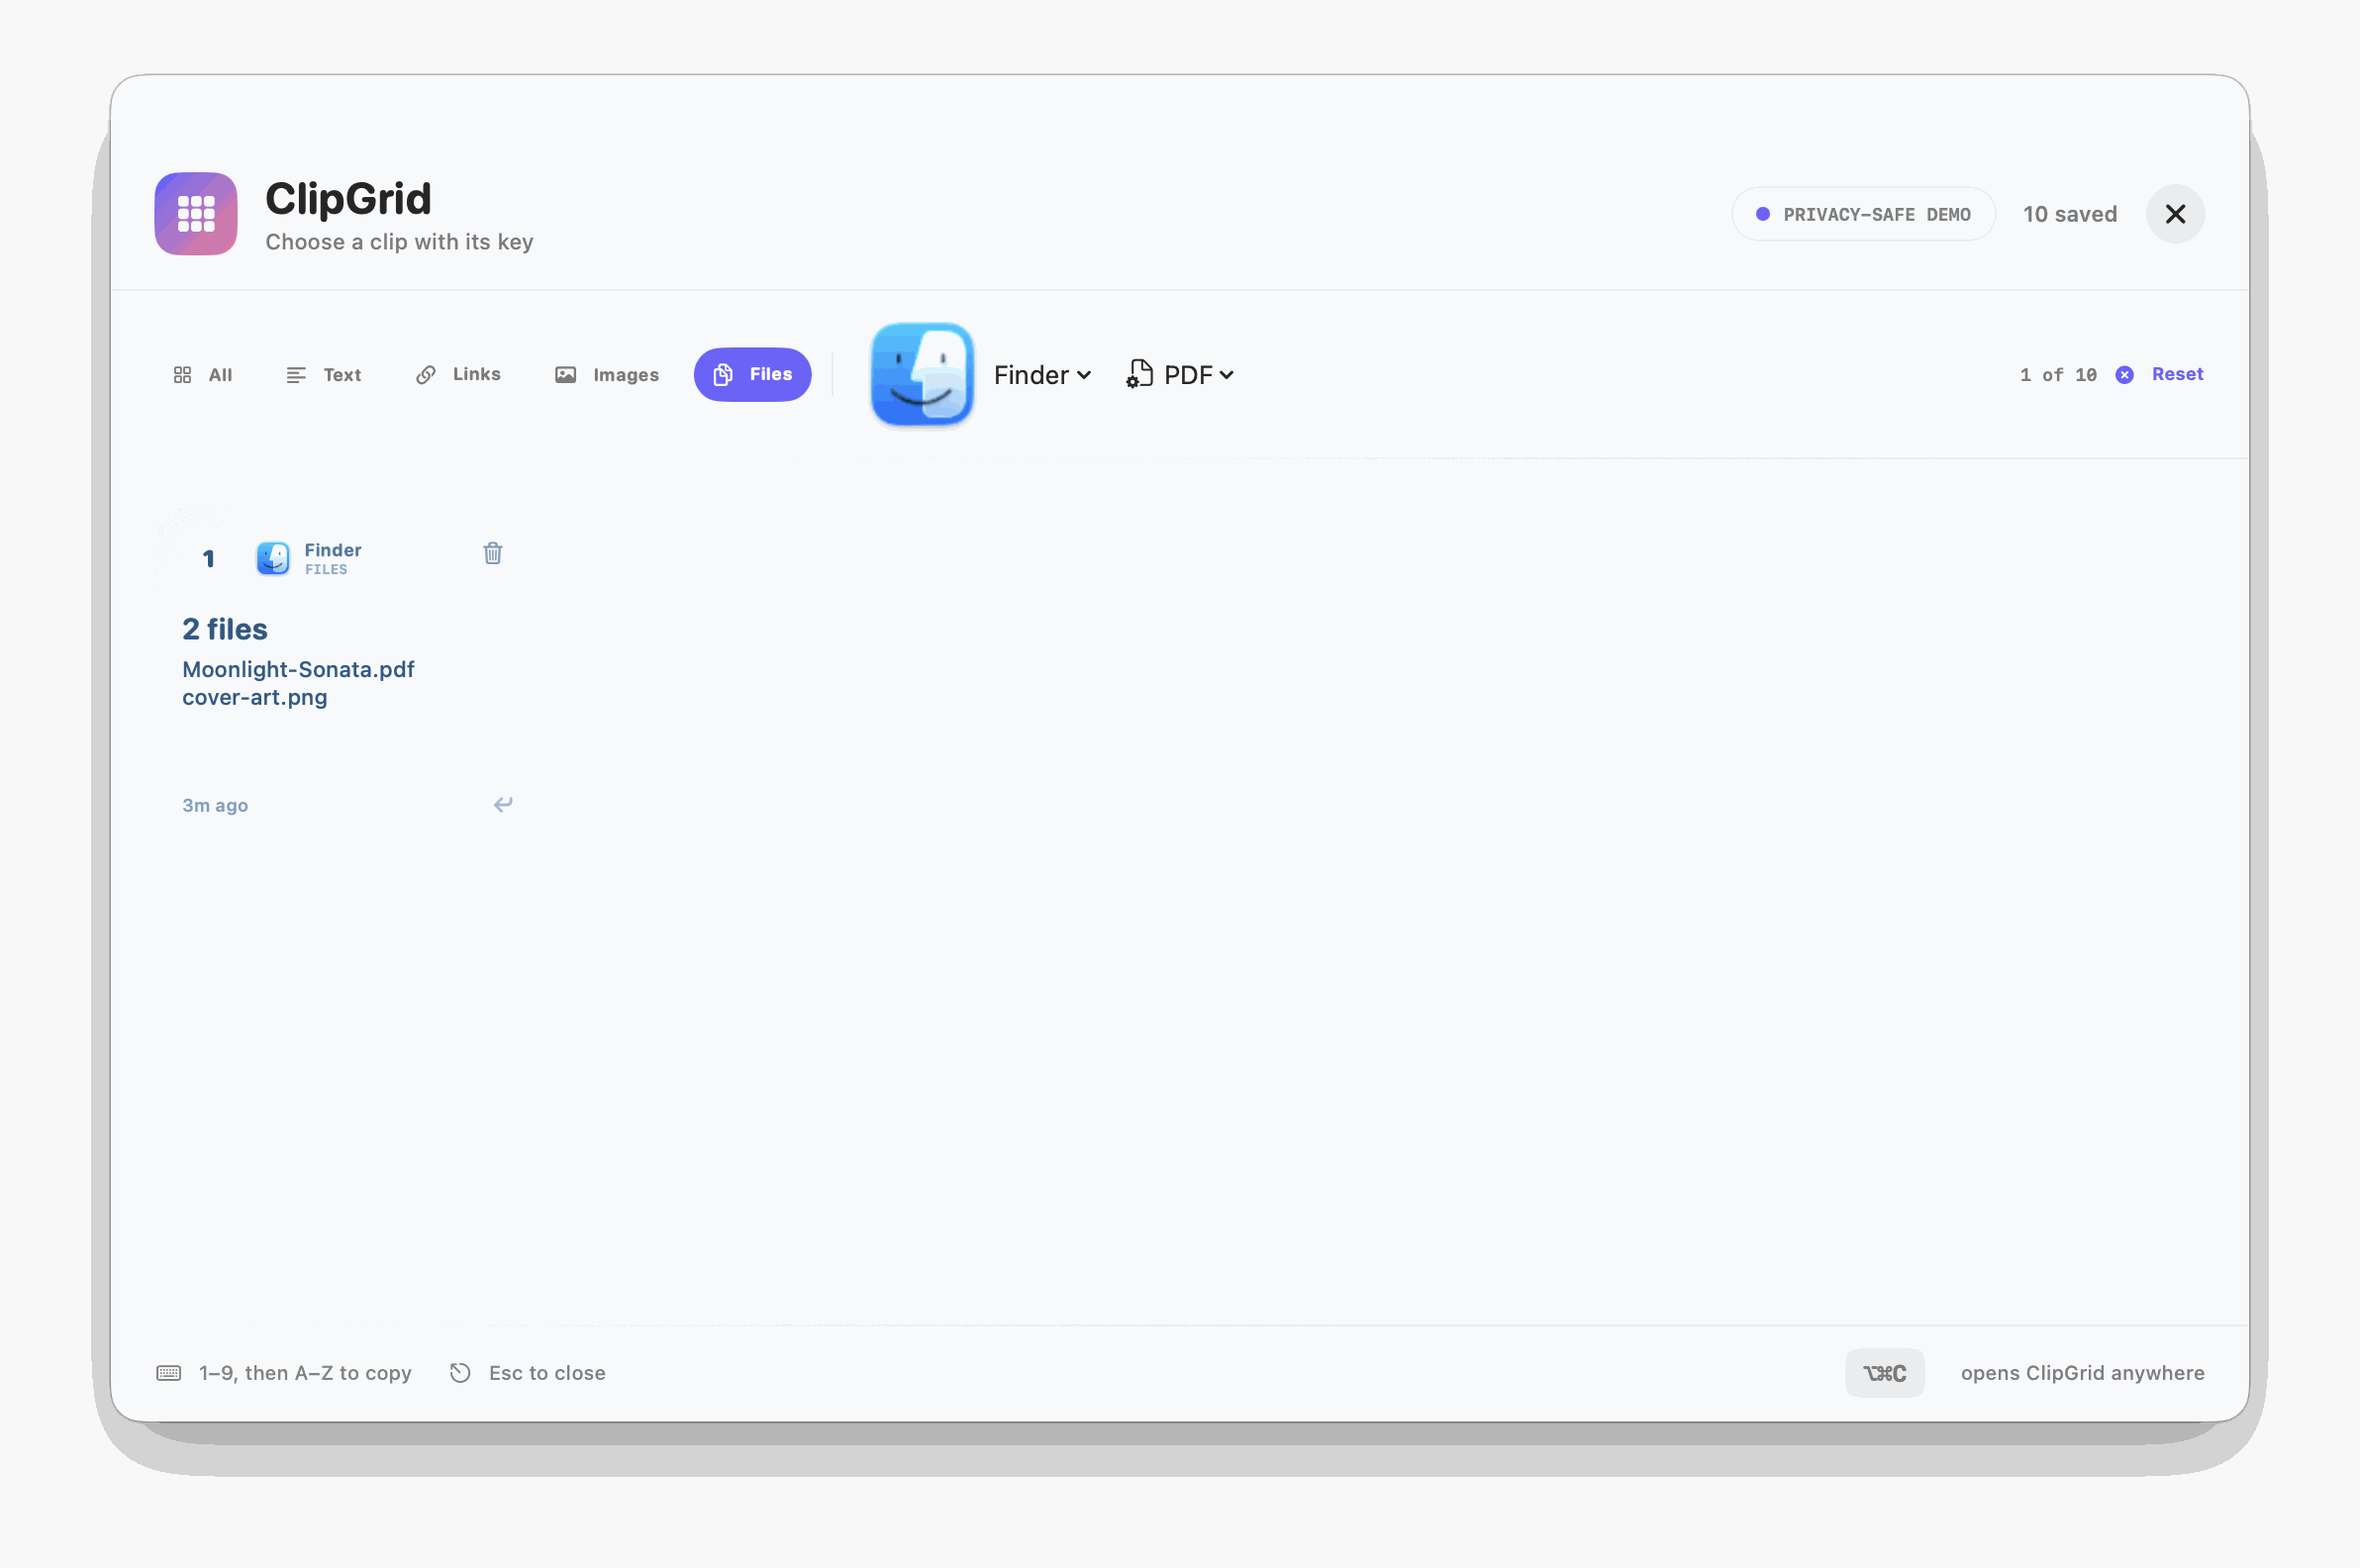
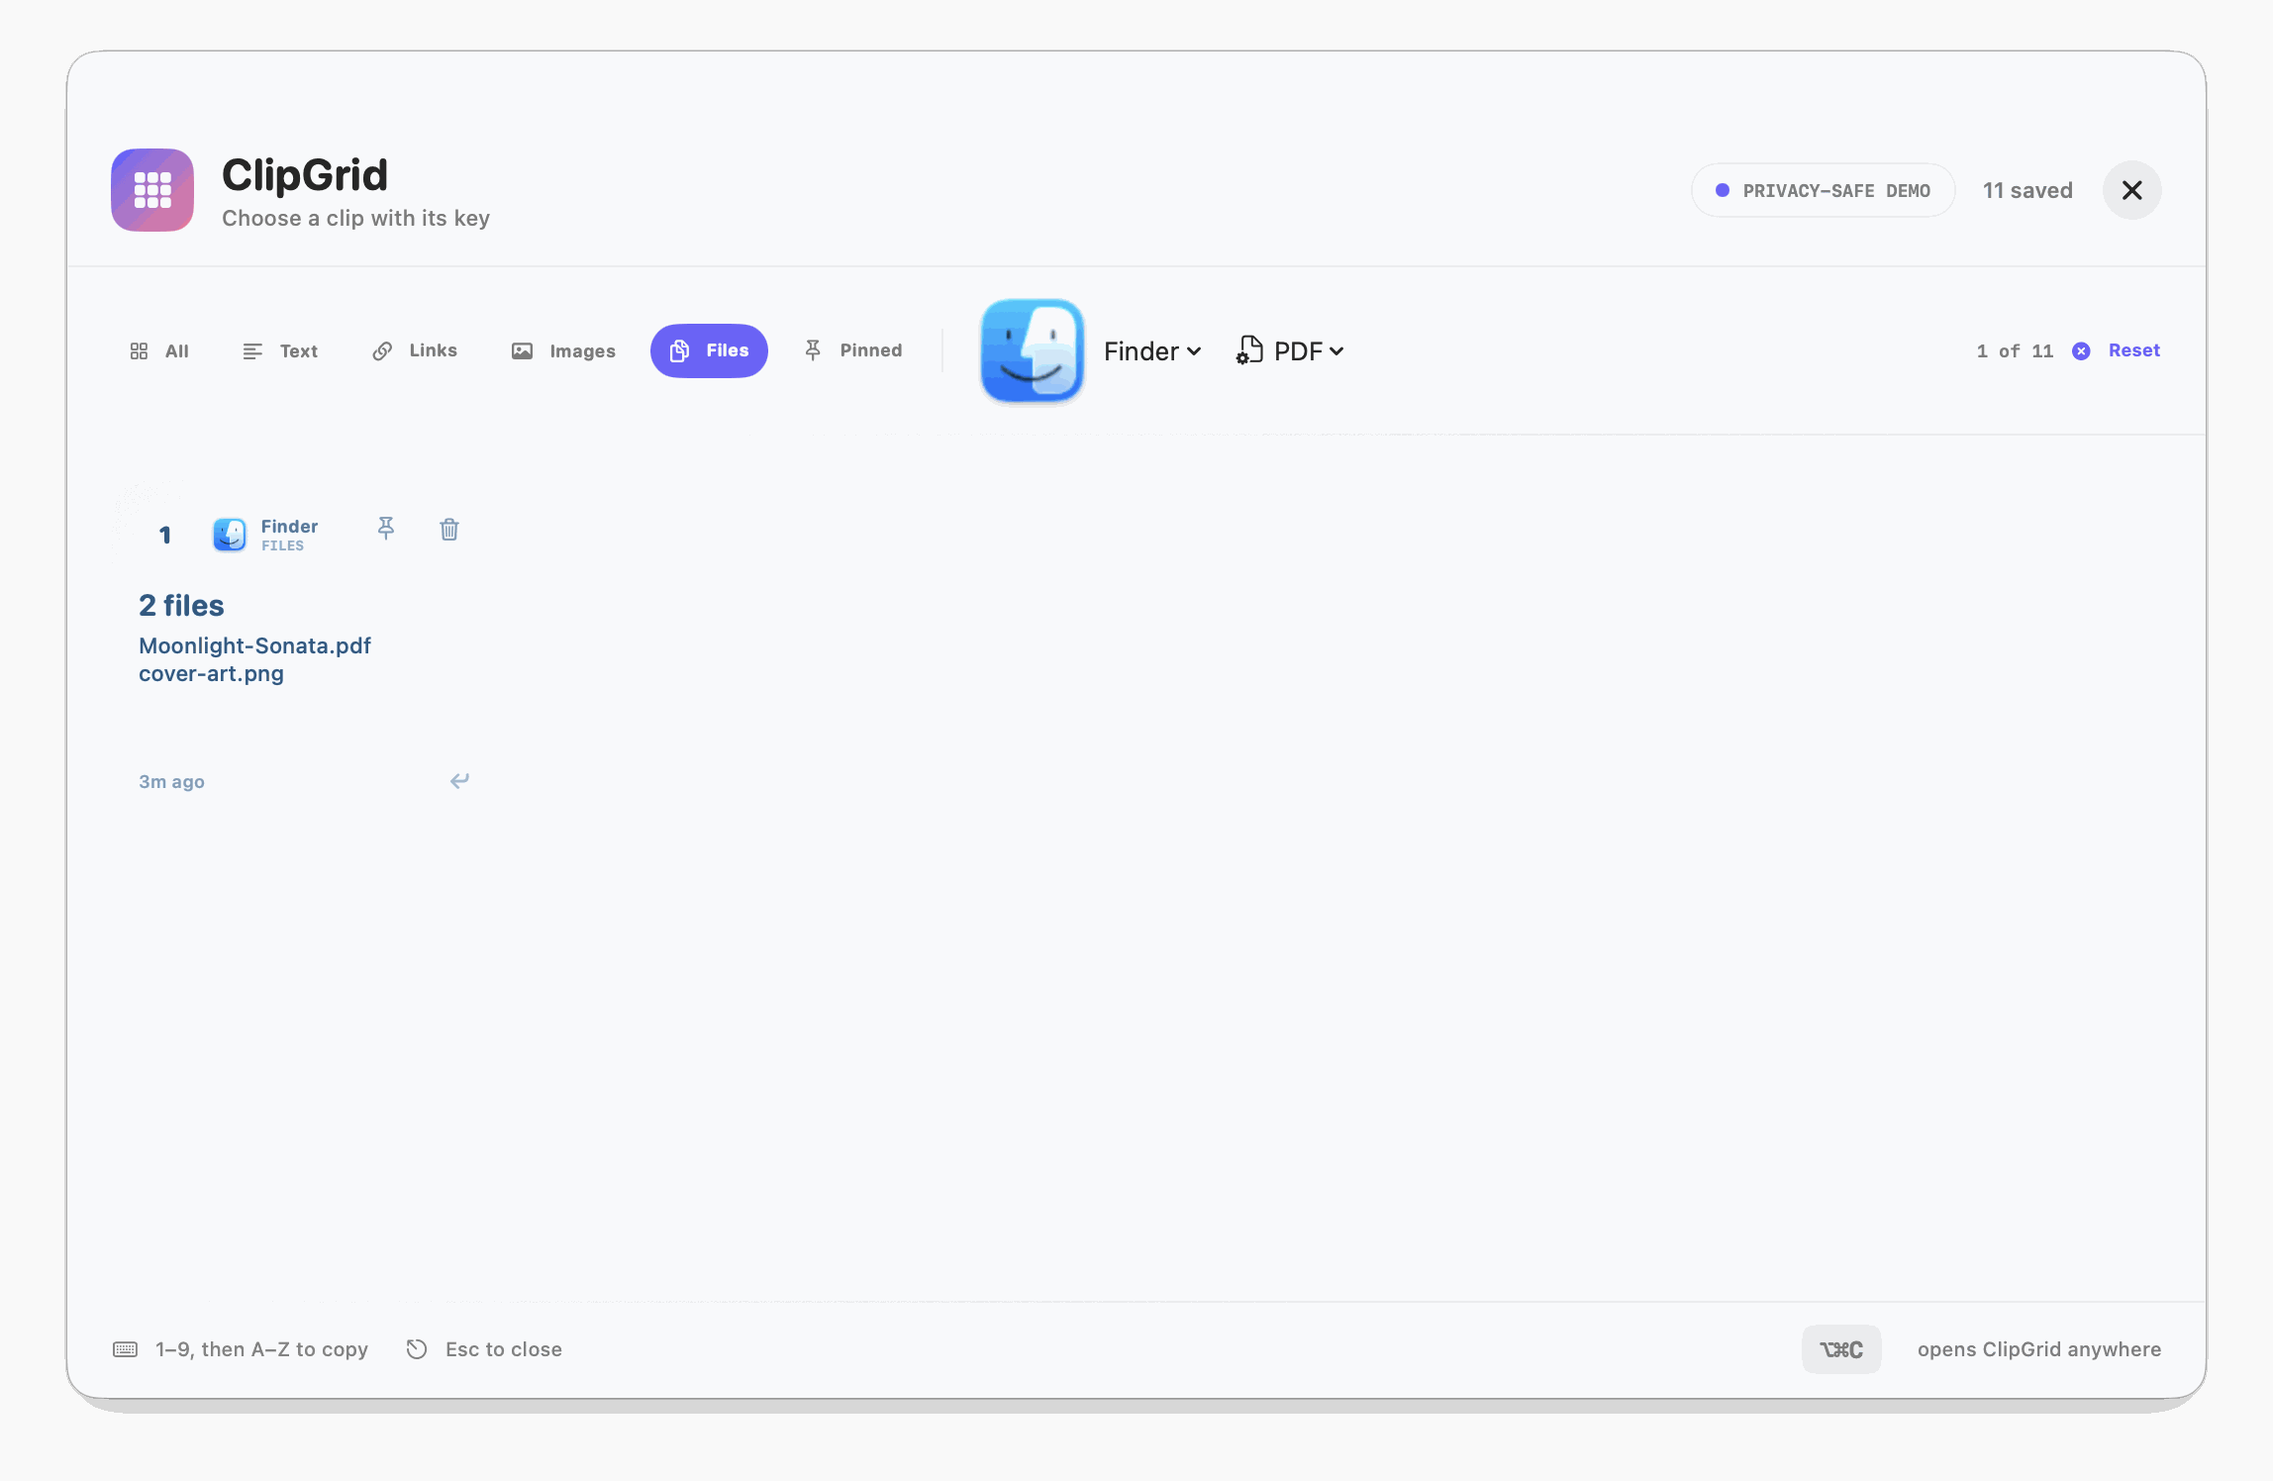
docs: stabilize screenshots and add image previews (#4)

Changed region(s): [[0.0309, 0.0922, 0.9895, 0.9532], [0.1855, 0.3382, 0.2165, 0.369]]

diff --git a/Sources/ClipGrid/DemoData.swift b/Sources/ClipGrid/DemoData.swift
@@ -16,6 +16,16 @@ enum DemoData {
                 now: now
             ),
             item(
+                kind: .image,
+                text: "Image · 640 × 360",
+                imageData: makePreviewImage(style: 0),
+                appName: "Photos",
+                bundleIdentifier: "com.apple.Photos",
+                isPinned: true,
+                secondsAgo: 42,
+                now: now
+            ),
+            item(
                 kind: .text,
                 text: "Rehearsal moved to 18:30. Bring the Rachmaninoff score 🎹",
                 appName: "Telegram",
@@ -52,7 +62,7 @@ enum DemoData {
             item(
                 kind: .image,
                 text: "Image · 640 × 360",
-                imageData: makePreviewImage(),
+                imageData: makePreviewImage(style: 1),
                 appName: "Preview",
                 bundleIdentifier: "com.apple.Preview",
                 secondsAgo: 420,
@@ -122,7 +132,7 @@ enum DemoData {
         )
     }
 
-    private static func makePreviewImage() -> Data? {
+    private static func makePreviewImage(style: Int) -> Data? {
         let width = 640
         let height = 360
         guard let bitmap = NSBitmapImageRep(
@@ -144,14 +154,35 @@ enum DemoData {
         NSGraphicsContext.current = context
 
         let bounds = NSRect(x: 0, y: 0, width: width, height: height)
-        NSGradient(colors: [
+        let colors: [NSColor] = style == 0 ? [
+            NSColor(calibratedRed: 0.11, green: 0.42, blue: 0.58, alpha: 1),
+            NSColor(calibratedRed: 0.42, green: 0.80, blue: 0.74, alpha: 1),
+        ] : [
             NSColor(calibratedRed: 0.42, green: 0.36, blue: 0.96, alpha: 1),
             NSColor(calibratedRed: 1.0, green: 0.43, blue: 0.57, alpha: 1),
-        ])?.draw(in: bounds, angle: 18)
+        ]
+        NSGradient(colors: colors)?.draw(in: bounds, angle: 18)
 
-        NSColor.white.withAlphaComponent(0.2).setFill()
-        NSBezierPath(ovalIn: NSRect(x: 405, y: 75, width: 185, height: 185)).fill()
-        NSBezierPath(roundedRect: NSRect(x: 55, y: 80, width: 300, height: 200), xRadius: 35, yRadius: 35).fill()
+        if style == 0 {
+            NSColor(calibratedRed: 1.0, green: 0.82, blue: 0.54, alpha: 0.95).setFill()
+            NSBezierPath(ovalIn: NSRect(x: 460, y: 225, width: 82, height: 82)).fill()
+            let mountains = NSBezierPath()
+            mountains.move(to: NSPoint(x: 0, y: 55))
+            mountains.line(to: NSPoint(x: 150, y: 240))
+            mountains.line(to: NSPoint(x: 255, y: 125))
+            mountains.line(to: NSPoint(x: 365, y: 285))
+            mountains.line(to: NSPoint(x: 520, y: 95))
+            mountains.line(to: NSPoint(x: 640, y: 205))
+            mountains.line(to: NSPoint(x: 640, y: 0))
+            mountains.line(to: NSPoint(x: 0, y: 0))
+            mountains.close()
+            NSColor.white.withAlphaComponent(0.72).setFill()
+            mountains.fill()
+        } else {
+            NSColor.white.withAlphaComponent(0.2).setFill()
+            NSBezierPath(ovalIn: NSRect(x: 405, y: 75, width: 185, height: 185)).fill()
+            NSBezierPath(roundedRect: NSRect(x: 55, y: 80, width: 300, height: 200), xRadius: 35, yRadius: 35).fill()
+        }
         context.flushGraphics()
         return bitmap.representation(using: .png, properties: [:])
     }

diff --git a/Tests/ClipGridTests/ClipGridTests.swift b/Tests/ClipGridTests/ClipGridTests.swift
@@ -92,11 +92,12 @@ import Testing
 
 @Test @MainActor func demoDataIsRepresentativeAndFilterable() {
     let items = DemoData.makeItems()
-    #expect(items.count == 10)
+    #expect(items.count == 11)
     #expect(items.allSatisfy { $0.sourceAppName != nil })
     #expect(items.contains { $0.kind == .image })
     #expect(items.contains { $0.kind == .files && $0.fileExtensionKeys.contains("pdf") })
-    #expect(items.filter(\.isPinned).count == 2)
+    #expect(items.filter(\.isPinned).count == 3)
+    #expect(items.filter { $0.kind == .image }.count == 2)
 
     let safariLinks = items.filter(
         ClipboardFilter(kind: .link, sourceKey: "com.apple.Safari").matches
@@ -115,7 +116,7 @@ import Testing
 
 @Test @MainActor func pinningReordersAndFiltersDemoHistory() throws {
     let store = ClipboardStore(demoMode: true)
-    #expect(store.items.prefix(2).allSatisfy { $0.isPinned })
+    #expect(store.items.prefix(3).allSatisfy { $0.isPinned })
 
     let itemToPin = try #require(store.items.last(where: { !$0.isPinned }))
     store.togglePinned(itemToPin)
@@ -123,10 +124,10 @@ import Testing
     #expect(store.items.first?.isPinned == true)
 
     store.togglePinnedOnly()
-    #expect(store.filteredItems.count == 3)
+    #expect(store.filteredItems.count == 4)
     #expect(store.filteredItems.allSatisfy { $0.isPinned })
 
     store.togglePinned(itemToPin)
-    #expect(store.filteredItems.count == 2)
-    #expect(store.items.firstIndex(where: { !$0.isPinned }) == 2)
+    #expect(store.filteredItems.count == 3)
+    #expect(store.items.firstIndex(where: { !$0.isPinned }) == 3)
 }

diff --git a/scripts/window_id.swift b/scripts/window_id.swift
@@ -1,0 +1,19 @@
+import CoreGraphics
+import Foundation
+
+let windows = CGWindowListCopyWindowInfo([.optionAll], kCGNullWindowID) as? [[String: Any]] ?? []
+let expectedPID = ProcessInfo.processInfo.environment["CLIPGRID_PID"].flatMap(Int.init)
+let candidates = windows.compactMap { info -> (id: Int, area: CGFloat)? in
+    guard (info[kCGWindowOwnerName as String] as? String) == "ClipGrid",
+          (info[kCGWindowName as String] as? String) == "ClipGrid",
+          let number = info[kCGWindowNumber as String] as? Int,
+          let ownerPID = info[kCGWindowOwnerPID as String] as? Int,
+          expectedPID == nil || ownerPID == expectedPID,
+          let dictionary = info[kCGWindowBounds as String] as? [String: Any],
+          let bounds = CGRect(dictionaryRepresentation: dictionary as CFDictionary) else { return nil }
+    return (number, bounds.width * bounds.height)
+}
+
+if let window = candidates.max(by: { $0.area < $1.area }) {
+    print(window.id)
+}

diff --git a/Sources/ClipGrid/ClipboardPanelController.swift b/Sources/ClipGrid/ClipboardPanelController.swift
@@ -30,7 +30,7 @@ final class ClipboardPanelController: NSWindowController, NSWindowDelegate {
         panel.backgroundColor = .clear
         panel.isOpaque = false
         panel.hasShadow = true
-        panel.animationBehavior = .utilityWindow
+        panel.animationBehavior = store.isPresentingDemoData ? .none : .utilityWindow
         panel.standardWindowButton(.miniaturizeButton)?.isHidden = true
         panel.standardWindowButton(.zoomButton)?.isHidden = true
         panel.standardWindowButton(.closeButton)?.isHidden = true

diff --git a/scripts/optimize_screenshots.py b/scripts/optimize_screenshots.py
@@ -1,0 +1,15 @@
+#!/usr/bin/env python3
+import sys
+from pathlib import Path
+from PIL import Image
+
+for argument in sys.argv[1:]:
+    path = Path(argument)
+    image = Image.open(path).convert("RGBA")
+    quantized = image.quantize(
+        colors=256,
+        method=Image.Quantize.FASTOCTREE,
+        dither=Image.Dither.FLOYDSTEINBERG,
+    )
+    quantized.save(path, optimize=True)
+    print(f"{path}: {image.width}x{image.height}")

diff --git a/README.md b/README.md
@@ -24,6 +24,10 @@ Clipboard history should be immediate, visually understandable, and private. Cli
 
 ![ClipGrid clipboard overview with application icons and colorful cards](docs/screenshots/01-overview.png)
 
+### Image clipboard previews
+
+![ClipGrid filtered to copied images with colorful visual previews](docs/screenshots/04-images-filter.png)
+
 ### Filter by content type and source application
 
 ![ClipGrid filtered to links copied from Safari](docs/screenshots/02-safari-links-filter.png)
@@ -120,6 +124,14 @@ The packaging script:
 4. Applies an ad-hoc local signature
 
 For Mac App Store distribution, the project will also provide a sandboxed Xcode archive target signed with an Apple Developer team.
+
+## Regenerate repository screenshots
+
+```bash
+./scripts/capture_screenshots.sh
+```
+
+Screenshot mode uses fictional in-memory clipboard content, disables panel animation, positions the window consistently, and waits eight seconds for gradients, icons, and image previews to finish rendering. It never reads or overwrites the user's clipboard history. Override the delay with `CLIPGRID_SCREENSHOT_DELAY` when needed.
 
 ## Architecture
 
